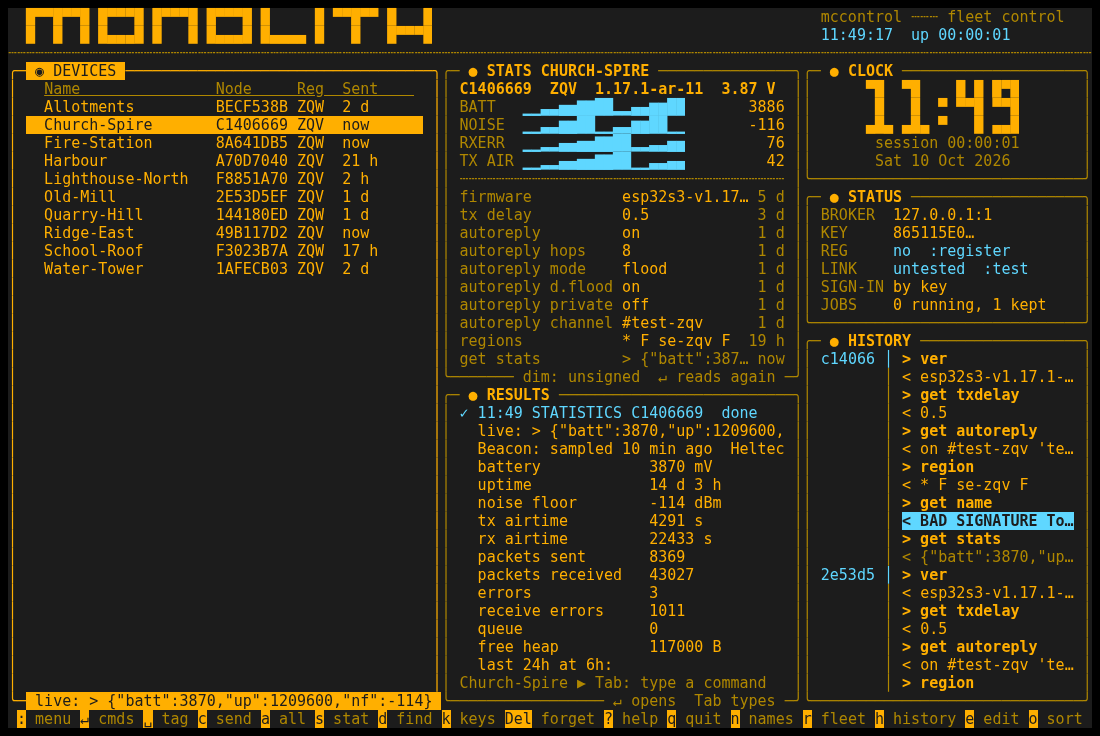
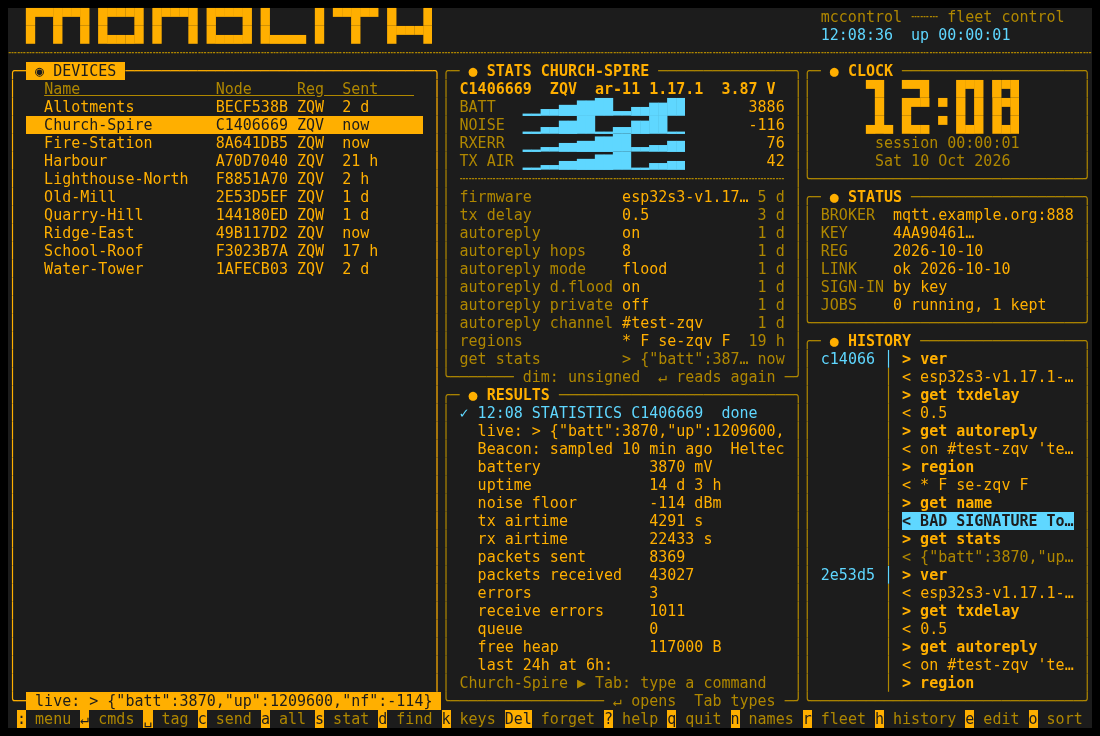
T-08: fix: the screenshot fleet is a configured install, and every status says it
The pictures showed BROKER 127.0.0.1:1, REG no, LINK untested. The
scratch home now has an invented broker (mqtt.example.org:8883, TLS
on), the key registered with it (store.remember_registration, as
`register` keeps it) and a passing broker test (store.remember_test, new:
`POST /jobs/test` now keeps its outcome too, so a screen can say it after
the session that ran it; Config.tested in the spec, read-only).

Each interface says it:
- Monolith's LINK: this session's test, else the one kept for the
  configured broker and port ("ok 2026-10-10").
- IBMi's main menu gains "Tested"; at 80 columns a broker that does not
  fit beside its label goes on the line under it.
- MeshcoreCommander: right of the menu bar, where Norton Commander kept
  its clock: "mqtt.example.org:8883  registered  test ok", the broker
  dropping out first where it does not fit.
A test of another broker says nothing about this one. All fifteen PNGs
made again (the Ver column's AR form shows in them too).

diff --git a/mccontrol/ui/MeshcoreCommander/app.py b/mccontrol/ui/MeshcoreCommander/app.py
@@ -121,6 +121,7 @@ class App:
         cursor_node = self.devices[self.list.cursor]["node"] if self.devices and self.list.cursor < len(self.devices) else None
         width = self.left.inner[2]
         listing = self.client.devices(sort=self.sort, width=width)
+        self.cfg = self.client.config()
         self.devices = listing["devices"]
         self.header, self.columns, self.all_columns = listing["header"], listing["columns"], listing["all_columns"]
         # a row laid out for the width is cut one short of it: the tag mark takes a column
@@ -294,8 +295,23 @@ class App:
         self.reads_view.draw(s)
         self.draw_line()
         self.menu.draw(s)
+        end = self.menu.positions[-1] + len(self.menu.menus[-1].title) + 3 if self.menu.positions else 0
+        for status in self.status():                         # the longest that fits right of them
+            if s.size[0] - len(status) - 2 > end:
+                s.put(0, s.size[0] - len(status) - 2, status, s.colors.bar)
+                break
         self.keybar.draw(s)
         s.refresh()
+
+    def status(self):
+        """Right of the menu bar, as Norton Commander kept its clock there: the broker, whether
+        the key is registered, and the last broker test kept for this broker."""
+        cfg = getattr(self, "cfg", None) or {}
+        kept = cfg.get("tested") or {}
+        same = (kept.get("broker"), kept.get("port")) == (cfg.get("broker"), cfg.get("port"))
+        test = ("test ok" if kept.get("ok") else "test FAILED") if kept and same else "untested"
+        reg = "registered" if cfg.get("registered") else "not registered"
+        return [f"{cfg.get('broker', '?')}:{cfg.get('port', '?')}  {reg}  {test}", f"{reg}  {test}", test]
 
     def target(self):
         """Who the command line sends to, as its prompt says it."""

diff --git a/mccontrol/ui/Monolith/board.py b/mccontrol/ui/Monolith/board.py
@@ -496,8 +496,7 @@ class Board:
             ("KEY", (key["public"][:8] + "…") if key.get("public") else "NONE  :generate key",
              "base" if key.get("public") else "alert"),
             ("REG", f"{reg['at'][:10]}" if reg else "no  :register", "base" if reg else "accent"),
-            ("LINK", ("ok " if (test["result"] or {}).get("ok") else "FAIL ") + test["started"][11:16] if test else "untested  :test",
-             "base" if test and (test["result"] or {}).get("ok") else "accent"),
+            self.link(test, cfg),
             ("SIGN-IN", (f"{cfg['username']}, password {'set' if cfg.get('password_set') else 'not set'}"
                          if cfg.get("username") else "by key"), "base"),
             ("JOBS", f"{sum(j['status'] == 'running' for j in self.jobs)} running, {len(self.jobs)} kept", "base"),
@@ -518,6 +517,17 @@ class Board:
             self.put(y + i, x + 9, art.cut(text, w - 9), role)
         if not rows:
             self.put(y, x, "Nothing sent yet."[:w], "dim")
+
+    @staticmethod
+    def link(test, cfg):
+        """The LINK line: this session's broker test, else the last one kept for this broker."""
+        if test:
+            ok = (test["result"] or {}).get("ok")
+            return "LINK", ("ok " if ok else "FAIL ") + test["started"][11:16], "base" if ok else "accent"
+        kept = cfg.get("tested") or {}
+        if kept and (kept.get("broker"), kept.get("port")) == (cfg.get("broker"), cfg.get("port")):
+            return "LINK", ("ok " if kept["ok"] else "FAIL ") + kept["at"][:10], "base" if kept["ok"] else "accent"
+        return "LINK", "untested  :test", "accent"
 
     def draw_clock(self, rect):
         y, x, w, h = self.frame(rect, "Clock", False)

diff --git a/tests/test_parity.py b/tests/test_parity.py
@@ -62,3 +62,18 @@ def test_every_history_view_says_a_forged_reply_and_an_unsigned_one():
     expected = ["> 1.2", "BAD SIGNATURE > evil", "> 1.2 (unsigned)", "refused not-allowed"]
     for said in (board.Board.said, commander.App.said, fmt.said):
         assert [said(line) for line in lines] == expected, said
+
+
+def test_every_status_says_the_registration_and_the_last_broker_test_kept_for_this_broker():
+    from mccontrol.ui.IBMi import fmt
+    cfg = {"broker": "mqtt.example.org", "port": 8883, "registered": {"broker": "mqtt.example.org", "at": "2026-10-09 10:00:00"},
+           "tested": {"broker": "mqtt.example.org", "port": 8883, "ok": True, "at": "2026-10-09 10:01:00"}}
+    other = dict(cfg, broker="mqtt.elsewhere.net")                         # a test of another broker says nothing
+    assert board.Board.link(None, cfg) == ("LINK", "ok 2026-10-09", "base")
+    assert board.Board.link(None, other)[1] == "untested  :test"
+    assert fmt.tested(cfg) == "ok 2026-10-09" and fmt.tested(other) == "no - select 10"
+    app = commander.App.__new__(commander.App)
+    app.cfg = cfg
+    assert app.status()[0] == "mqtt.example.org:8883  registered  test ok"
+    app.cfg = dict(other, registered=None)
+    assert app.status()[0] == "mqtt.elsewhere.net:8883  not registered  untested"

diff --git a/mccontrol/ui/IBMi/app.py b/mccontrol/ui/IBMi/app.py
@@ -130,9 +130,15 @@ class App:
             info = [("Broker", f"{cfg.get('broker')}:{cfg.get('port')}"),
                     ("Signing key", "present" if signing.get("exists") else "NONE - select 8"),
                     ("Registered", reg["at"][:10] if reg else "no - select 8"),
+                    ("Tested", fmt.tested(cfg)),
                     ("Devices", data.get("footer", ""))]
+            broker = info.pop(0)[1]
+            if len(broker) > w - 54 - 12:       # at 80 columns: the broker on a line of its own under its label
+                info[:0] = [("Broker", ""), ("", "  " + broker)]
+            else:
+                info.insert(0, ("Broker", broker))
             for i, (label, value) in enumerate(info):
-                t.put(5 + i, 52, f"{label:12} {value}"[: w - 54])
+                t.put(5 + i, 52, (f"{label:11} {value}" if label else value.strip().rjust(w - 54))[: w - 54])
             t.put(h - 6, 1, "Selection or command")
             t.put(h - 5, 1, "===>", "bright")
             key, command = t.edit(h - 5, 6, w - 8, command)

diff --git a/scripts/screenshots.py b/scripts/screenshots.py
@@ -76,9 +76,13 @@ def build_home(where):
     home = where / "home"
     st = _store.Store(home)
     st.create_key()
-    st.save_config(broker="127.0.0.1", port=1, beacon_url="http://127.0.0.1:1", wait_secs=4,
+    # a configured install: an invented broker, the key registered with it and a passing broker
+    # test, kept as `register` and `test` keep them; nothing reaches it (the fake broker answers)
+    st.save_config(broker="mqtt.example.org", port=8883, tls=True, beacon_url="http://beacon.example.org", wait_secs=4,
                    sets={"add-scope": ["region put {arg} *", "region allowf {arg}", "region save", "region"],
                          "audit": ["ver", "get txdelay", "get autoreply"]})
+    st.remember_registration("mqtt.example.org")
+    st.remember_test("mqtt.example.org", 8883, True)
     (home / "history").mkdir(exist_ok=True)
     script, nodes, table = {}, [], {}
     for i, (name, region, rev, mv, txdelay, ar) in enumerate(FLEET):

diff --git a/mccontrol/api/jobs.py b/mccontrol/api/jobs.py
@@ -413,7 +413,9 @@ def start_test(ctx, _p, _q, _b):
 
     def work(job):
         job.update(text=f"connecting to {store.config()['broker']}")
-        steps = transport.test_connection(store.config(), seed_hex=store.seed() if store.has_key() else None)
+        config = store.config()
+        steps = transport.test_connection(config, seed_hex=store.seed() if store.has_key() else None)
+        store.remember_test(config["broker"], config["port"], all(ok for _s, ok, _d in steps))   # kept: STATUS says it
         return {"steps": [{"step": s, "ok": ok, "detail": detail} for s, ok, detail in steps],
                 "key": store.public_key() if store.has_key() else None, "registered": store.registration(),
                 "ok": all(ok for _s, ok, _d in steps)}

diff --git a/tests/test_screenshots.py b/tests/test_screenshots.py
@@ -39,3 +39,11 @@ def test_the_fleet_is_invented_and_the_board_shows_it(tmp_path):
     text = "\n".join(_text(screen))
     assert "Church-Spire" in text and "10 devices" in text and "HISTORY" in text and "STATS CHURCH-SPIRE" in text
     assert not any(node in text for node in real)
+
+
+def test_the_fleets_home_reads_like_a_configured_install(tmp_path):
+    from mccontrol import store as _store
+    home, _script, _beacon = screenshots.build_home(tmp_path)
+    st = _store.Store(home)
+    assert (st.config()["broker"], st.config()["port"], st.config()["tls"]) == ("mqtt.example.org", 8883, True)
+    assert st.registration()["broker"] == "mqtt.example.org" and st.tested()["ok"] is True

diff --git a/tests/test_api.py b/tests/test_api.py
@@ -163,6 +163,8 @@ def test_every_route_answers_as_its_schema_says(api, monkeypatch):
                        ("register", {})]:
         assert run(url, verb, body)["status"] == "done", verb
     assert run(url, "test")["result"]["ok"] is False
+    tested = call(url, "GET", "/config")[1]["tested"]                      # kept, so a screen can say it later
+    assert tested["ok"] is False and tested["broker"] == "127.0.0.1" and tested["at"]
     jobs = call(url, "GET", "/jobs")[1]["jobs"]
     assert jobs[0]["verb"] == "test" and len(jobs) == 8
     assert {j["verb"] for j in jobs if not j["cancellable"]} == {"test", "register"}

diff --git a/mccontrol/store.py b/mccontrol/store.py
@@ -164,6 +164,13 @@ class Store:
     def remember_registration(self, broker):
         self.save_config(registered={"broker": broker, "at": _now()})
 
+    def tested(self):
+        """`{broker, port, ok, at}` of the last connection test, else None."""
+        return self.config().get("tested") or None
+
+    def remember_test(self, broker, port, ok):
+        self.save_config(tested={"broker": broker, "port": port, "ok": bool(ok), "at": _now()})
+
     def shortcuts(self):
         """Nine slots, Alt+1 first; an empty string is an unused slot."""
         slots = list(self.config().get("shortcuts", DEFAULT_SHORTCUTS))

diff --git a/mccontrol/ui/IBMi/fmt.py b/mccontrol/ui/IBMi/fmt.py
@@ -4,6 +4,15 @@ No curses here, so each is a unit test."""
 import textwrap
 
 
+def tested(cfg):
+    """The last broker test kept for the configured broker: `ok 2026-10-10`, `FAILED ...`,
+    or how to run one."""
+    kept = cfg.get("tested") or {}
+    if not kept or (kept.get("broker"), kept.get("port")) != (cfg.get("broker"), cfg.get("port")):
+        return "no - select 10"
+    return f"{'ok' if kept.get('ok') else 'FAILED'} {(kept.get('at') or '')[:10]}"
+
+
 def history_out(line):
     """What came back for one history line: the reply, the refusal, or the note."""
     if line.get("code") == 0:

diff --git a/tests/test_ibmi.py b/tests/test_ibmi.py
@@ -181,7 +181,7 @@ def test_the_main_menu_numbers_its_selections_and_takes_a_command(api):
     text = walk(api, [(b"42\r", 0.6)])
     assert "MCCONTROL Main Menu" in text and "Select one of the following:" in text
     assert "1. Work with devices" in text and "90. Sign off" in text and "===>" in text
-    assert "Signing key  present" in text and "3 devices" in text
+    assert "Signing key present" in text and "3 devices" in text and "Tested      no - select 10" in text
     assert "Command 42 is not valid here." in text
     assert "F3=Exit" in text and "F12=Cancel" in text
 

diff --git a/mccontrol/ui/IBMi/README.md b/mccontrol/ui/IBMi/README.md
@@ -21,12 +21,12 @@ The pictures are an invented fleet, made by `scripts/screenshots.py`. As text, t
  Select one of the following:
        1. Work with devices
        2. Send a command
-       3. Send a command to every node in a region  Broker       mqtt.louie.se
-       4. Run a command set                         Signing key  present
-       5. Discover devices                          Registered   no - select 8
-       6. Work with command sets                    Devices      3 devices
-       7. Work with shortcuts
-       8. Work with signing key
+       3. Send a command to every node in a region  Broker
+       4. Run a command set                                 mqtt.louie.se:8883
+       5. Discover devices                          Signing key present
+       6. Work with command sets                    Registered  no - select 8
+       7. Work with shortcuts                       Tested      no - select 10
+       8. Work with signing key                     Devices     3 devices
        9. Change configuration
       10. Test the broker connection
       11. Change directory columns
@@ -49,7 +49,8 @@ A number on `===>` opens that screen; `90`, `signoff` or `quit` signs off. `1` W
 with command sets, `7` Work with shortcuts, `8` Work with signing key, `9` Change configuration
 (the broker, its port, TLS on or off, credentials, the Beacon URL), `10` Test the broker
 connection, `11` Change directory columns, `12` Display command history, `13` Help contents, `14`
-Command entry.
+Command entry. At the right: the broker, the signing key, when it was registered, the last broker
+test kept for this broker (`ok 2026-10-10`, or `no - select 10`), the devices.
 
 ## Work with Devices
 
